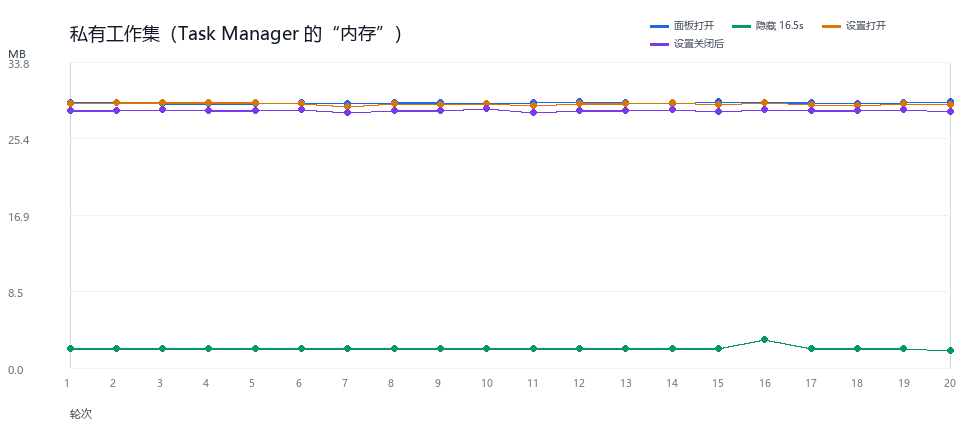
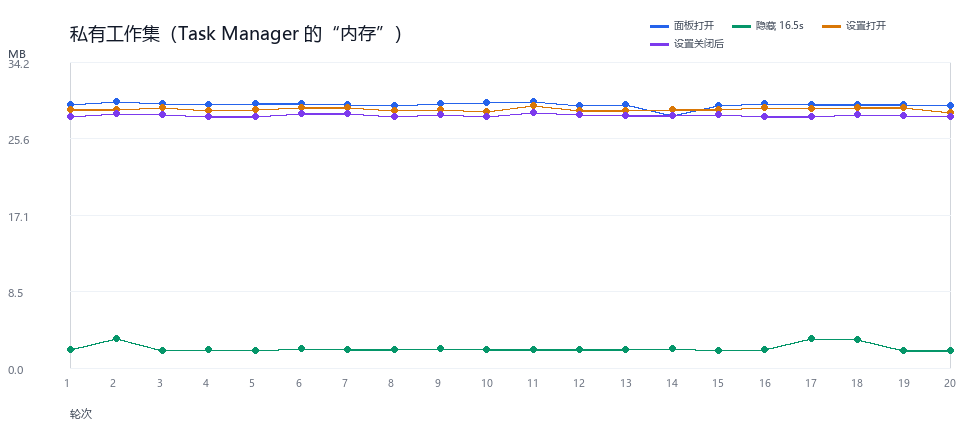
fix: restore panel content after animation removal; rerun 20-cycle test

diff --git a/src/PanelWindow.cs b/src/PanelWindow.cs
@@ -234,8 +234,8 @@ namespace SmartLauncher
             _panel.Background = Theme.PanelSolidBrush;
             _panel.BorderBrush = Theme.PanelBorderBrush;
             Background = Theme.PanelSolidBrush;
-            _content.Opacity = 0;
-            _content.RenderTransform = new TranslateTransform(0, 6);
+            _content.Opacity = 1;
+            _content.RenderTransform = new TranslateTransform(0, 0);
             PositionNearCursor();
             _shownAt = DateTime.Now;
             BeginFocusGrace();

diff --git a/tests/stability-report.md b/tests/stability-report.md
@@ -1,6 +1,6 @@
 # SmartLauncher v1.2 稳定性压测报告
 
-- 时间：2026-10-19 15:56:22
+- 时间：2026-10-19 16:11:00
 - 环境：Windows 11 26200，1920×1080，100% DPI
 - 轮次：20 次完整生命周期（冷启动 → 显示 → Esc 隐藏 16.5s → 设置打开/关闭 → 结束进程）
 - 指标：Task Manager 的“私有工作集”（Working Set - Private）+ 提交大小 + CPU 时间差；CPU 按全部逻辑核心折算
@@ -9,19 +9,19 @@
 
 | 指标 | 平均 | 最小 | 最大 |
 |---|---:|---:|---:|
-| 冷启动 (ms) | 341 | 325 | 523 |
-| 启动 CPU 时间 (ms) | 324 | 297 | 375 |
-| 打开：私有工作集 (MB) | 29.3 | 29.2 | 29.4 |
-| 打开：提交大小 (MB) | 96.3 | 95.4 | 98.1 |
+| 冷启动 (ms) | 346 | 325 | 555 |
+| 启动 CPU 时间 (ms) | 332 | 281 | 375 |
+| 打开：私有工作集 (MB) | 29.4 | 28.2 | 29.7 |
+| 打开：提交大小 (MB) | 96.2 | 95.2 | 97.2 |
 | 打开：CPU (%) | 0.00 | 0.00 | 0.00 |
-| 隐藏 16.5s：私有工作集 (MB) | 2.1 | 1.9 | 3.2 |
+| 隐藏 16.5s：私有工作集 (MB) | 2.3 | 2.0 | 3.3 |
 | 隐藏：CPU (%) | 0.00 | 0.00 | 0.00 |
-| 设置打开：私有工作集 (MB) | 29.2 | 28.9 | 29.3 |
+| 设置打开：私有工作集 (MB) | 28.9 | 28.5 | 29.3 |
 | 设置打开：CPU (%) | 0.00 | 0.00 | 0.00 |
-| 设置关闭后：私有工作集 (MB) | 28.5 | 28.2 | 28.7 |
-| 设置关闭后：CPU (%) | 0.00 | 0.00 | 0.00 |
-| 打开：句柄数 | 673 | 673 | 673 |
-| 打开：线程数 | 17 | 17 | 18 |
+| 设置关闭后：私有工作集 (MB) | 28.2 | 28.1 | 28.5 |
+| 设置关闭后：CPU (%) | 0.00 | 0.00 | 0.07 |
+| 打开：句柄数 | 674 | 674 | 674 |
+| 打开：线程数 | 17 | 17 | 17 |
 
 - 完成轮次：**20/20**
 - 失败轮次：**0**
@@ -31,26 +31,26 @@
 
 | 轮次 | 冷启动 ms | 打开私有 WS | 隐藏私有 WS | 设置私有 WS | 关闭后私有 WS | 打开 CPU% | 隐藏 CPU% | 设置 CPU% | 错误 |
 |---:|---:|---:|---:|---:|---:|---:|---:|---:|---|
-| 1 | 523 | 29.3 | 2.1 | 29.2 | 28.4 | 0.00 | 0.00 | 0.00 |  |
-| 2 | 326 | 29.3 | 2.1 | 29.3 | 28.5 | 0.00 | 0.00 | 0.00 |  |
-| 3 | 334 | 29.2 | 2.1 | 29.3 | 28.6 | 0.00 | 0.00 | 0.00 |  |
-| 4 | 347 | 29.2 | 2.1 | 29.3 | 28.5 | 0.00 | 0.00 | 0.00 |  |
-| 5 | 334 | 29.2 | 2.1 | 29.3 | 28.4 | 0.00 | 0.00 | 0.00 |  |
-| 6 | 325 | 29.3 | 2.1 | 29.2 | 28.6 | 0.00 | 0.00 | 0.00 |  |
-| 7 | 326 | 29.2 | 2.1 | 28.9 | 28.2 | 0.00 | 0.00 | 0.00 |  |
-| 8 | 325 | 29.3 | 2.1 | 29.2 | 28.5 | 0.00 | 0.00 | 0.00 |  |
-| 9 | 332 | 29.3 | 2.1 | 29.1 | 28.4 | 0.00 | 0.00 | 0.00 |  |
-| 10 | 332 | 29.2 | 2.1 | 29.2 | 28.7 | 0.00 | 0.00 | 0.00 |  |
-| 11 | 328 | 29.3 | 2.1 | 29.0 | 28.2 | 0.00 | 0.00 | 0.00 |  |
-| 12 | 334 | 29.4 | 2.1 | 29.2 | 28.5 | 0.00 | 0.00 | 0.00 |  |
-| 13 | 335 | 29.3 | 2.1 | 29.2 | 28.4 | 0.00 | 0.00 | 0.00 |  |
-| 14 | 334 | 29.2 | 2.1 | 29.3 | 28.6 | 0.00 | 0.00 | 0.00 |  |
-| 15 | 327 | 29.4 | 2.1 | 29.1 | 28.3 | 0.00 | 0.00 | 0.00 |  |
-| 16 | 335 | 29.3 | 3.2 | 29.3 | 28.6 | 0.00 | 0.00 | 0.00 |  |
-| 17 | 337 | 29.3 | 2.1 | 29.1 | 28.4 | 0.00 | 0.00 | 0.00 |  |
-| 18 | 330 | 29.2 | 2.1 | 29.0 | 28.5 | 0.00 | 0.00 | 0.00 |  |
-| 19 | 332 | 29.3 | 2.1 | 29.2 | 28.6 | 0.00 | 0.00 | 0.00 |  |
-| 20 | 327 | 29.4 | 1.9 | 29.1 | 28.3 | 0.00 | 0.00 | 0.00 |  |
+| 1 | 555 | 29.4 | 2.1 | 28.8 | 28.1 | 0.00 | 0.00 | 0.00 |  |
+| 2 | 335 | 29.7 | 3.3 | 28.8 | 28.4 | 0.00 | 0.00 | 0.00 |  |
+| 3 | 330 | 29.5 | 2.0 | 29.1 | 28.3 | 0.00 | 0.00 | 0.00 |  |
+| 4 | 333 | 29.4 | 2.1 | 28.7 | 28.1 | 0.00 | 0.00 | 0.00 |  |
+| 5 | 334 | 29.5 | 2.0 | 28.9 | 28.1 | 0.00 | 0.00 | 0.00 |  |
+| 6 | 325 | 29.5 | 2.2 | 29.1 | 28.4 | 0.00 | 0.00 | 0.00 |  |
+| 7 | 329 | 29.4 | 2.1 | 29.1 | 28.4 | 0.00 | 0.00 | 0.00 |  |
+| 8 | 351 | 29.3 | 2.1 | 28.7 | 28.1 | 0.00 | 0.00 | 0.00 |  |
+| 9 | 327 | 29.5 | 2.2 | 28.8 | 28.3 | 0.00 | 0.00 | 0.00 |  |
+| 10 | 333 | 29.6 | 2.1 | 28.6 | 28.1 | 0.00 | 0.00 | 0.00 |  |
+| 11 | 334 | 29.7 | 2.1 | 29.3 | 28.5 | 0.00 | 0.00 | 0.00 |  |
+| 12 | 334 | 29.3 | 2.1 | 28.7 | 28.3 | 0.00 | 0.00 | 0.00 |  |
+| 13 | 326 | 29.4 | 2.1 | 28.7 | 28.2 | 0.00 | 0.00 | 0.00 |  |
+| 14 | 334 | 28.2 | 2.2 | 28.8 | 28.2 | 0.00 | 0.00 | 0.00 |  |
+| 15 | 362 | 29.3 | 2.0 | 28.9 | 28.3 | 0.00 | 0.00 | 0.00 |  |
+| 16 | 335 | 29.5 | 2.1 | 29.1 | 28.1 | 0.00 | 0.00 | 0.00 |  |
+| 17 | 328 | 29.4 | 3.3 | 29.0 | 28.1 | 0.00 | 0.00 | 0.00 |  |
+| 18 | 326 | 29.4 | 3.2 | 29.1 | 28.3 | 0.00 | 0.00 | 0.00 |  |
+| 19 | 330 | 29.4 | 2.0 | 29.1 | 28.2 | 0.00 | 0.00 | 0.00 |  |
+| 20 | 350 | 29.3 | 2.0 | 28.5 | 28.1 | 0.00 | 0.00 | 0.00 |  |
 
 ## 图表
 
@@ -64,10 +64,10 @@
 
 ## 结论
 
-- 20 轮全部完成：冷启动平均 **341 ms**
-- 面板打开：私有工作集平均 **29.3 MB**，峰值 **29.4 MB**
-- 隐藏 16.5s 后：私有工作集平均 **2.1 MB**，说明 EmptyWorkingSet 生效
-- 设置关闭后：私有工作集平均 **28.5 MB**；设置控件释放后不会立即回到 2MB，下一次面板隐藏/空闲退出会再压缩
+- 20 轮全部完成：冷启动平均 **346 ms**
+- 面板打开：私有工作集平均 **29.4 MB**，峰值 **29.7 MB**
+- 隐藏 16.5s 后：私有工作集平均 **2.3 MB**，说明 EmptyWorkingSet 生效
+- 设置关闭后：私有工作集平均 **28.2 MB**；设置控件释放后不会立即回到 2MB，下一次面板隐藏/空闲退出会再压缩
 - 提交大小约 90–100MB，是 WPF/.NET 的虚拟提交，不是物理内存
 - 各状态 CPU 都是 0.00%（1 秒采样、按全部核心折算，低于 0.01%）
 - 20 轮内没有异常日志、没有启动失败、没有设置窗口打不开

diff --git a/README.md b/README.md
@@ -55,7 +55,7 @@ Quicker 动作保持原样即可（主路径现在已经存在）：
 
 ## 测试
 
-- `tests\smoke.ps1`：启动 → 显示 → Esc → 设置 → 关闭，失败返回 1。
+- `tests\smoke.ps1`：启动 → 显示（并检查面板内容非空）→ Esc → 设置 → 关闭，失败返回 1。
 - `tests\stability-test.ps1`：20 轮采样，需要先准备测试目录；脚本会把结果写入 CSV。
 - `tests\stability-report.md`：v1.2 的 20 轮结果、汇总和图表；原始数据在 `tests\stability-results.csv`。
 

diff --git a/CHANGELOG.md b/CHANGELOG.md
@@ -8,6 +8,7 @@
 - 设置页左侧 ≡ 拖拽排序
 - 修复右键菜单四个黑角（Popup 改为透明）
 - 面板显示/隐藏改为即时，去掉可能卡住的渲染动画
+- 修复移除动画后面板内容空白（ShowPanel 残留 Opacity=0）
 - 设置关闭后触发工作集压缩
 - 20 轮稳定性压测：20/20 通过，结果见 `tests/stability-report.md`
 
